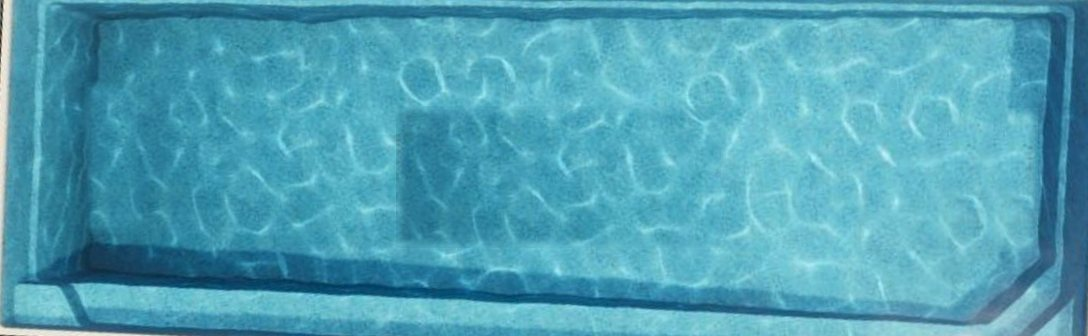
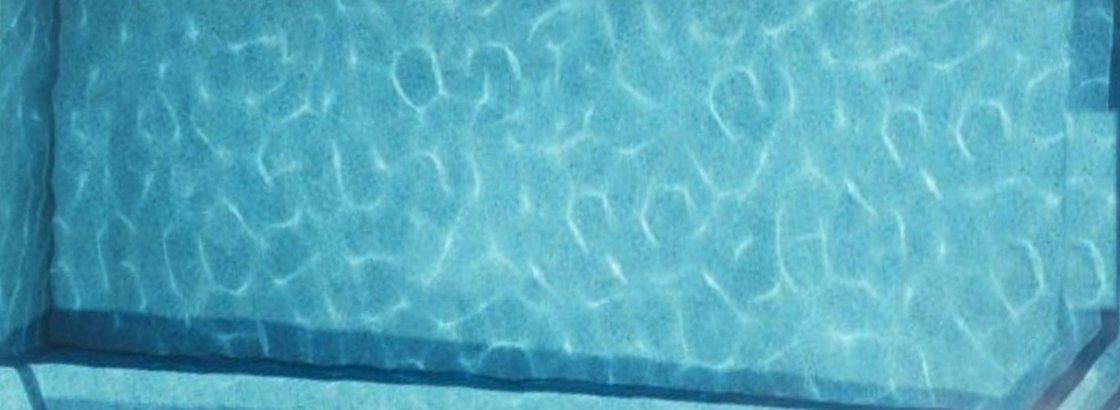
Diagram: cleaner full-pool crop (no grass, nothing cut off) + all text removed
Re-cropped the Brampton photo to pure water edge-to-edge (app coping frames it, so no
shell/grass needed in the image). Removed DE-2.06M / SE-0.92M markers, 'barrier reef
pools' + tagline and 'BRAMPTON 12.1M X 4.4M' via texture-patch sourced from busy ripple
so the fills blend invisibly. sw cache v21.

diff --git a/sw.js b/sw.js
@@ -1,7 +1,7 @@
 // Paradise Pools Tile & Concrete Calculator — service worker
 // Caches the app on first visit so it works fully offline afterwards.
 
-const CACHE_NAME = "pp-tile-calc-v20";
+const CACHE_NAME = "pp-tile-calc-v21";
 const ASSETS = [
   "./",
   "./index.html",
